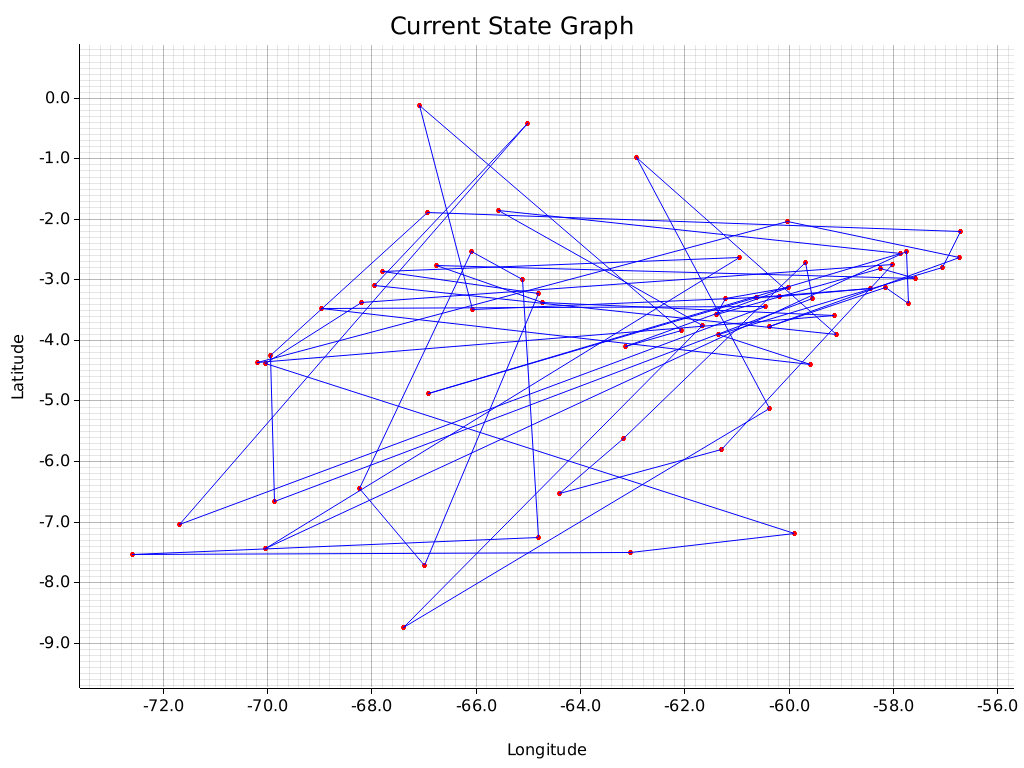
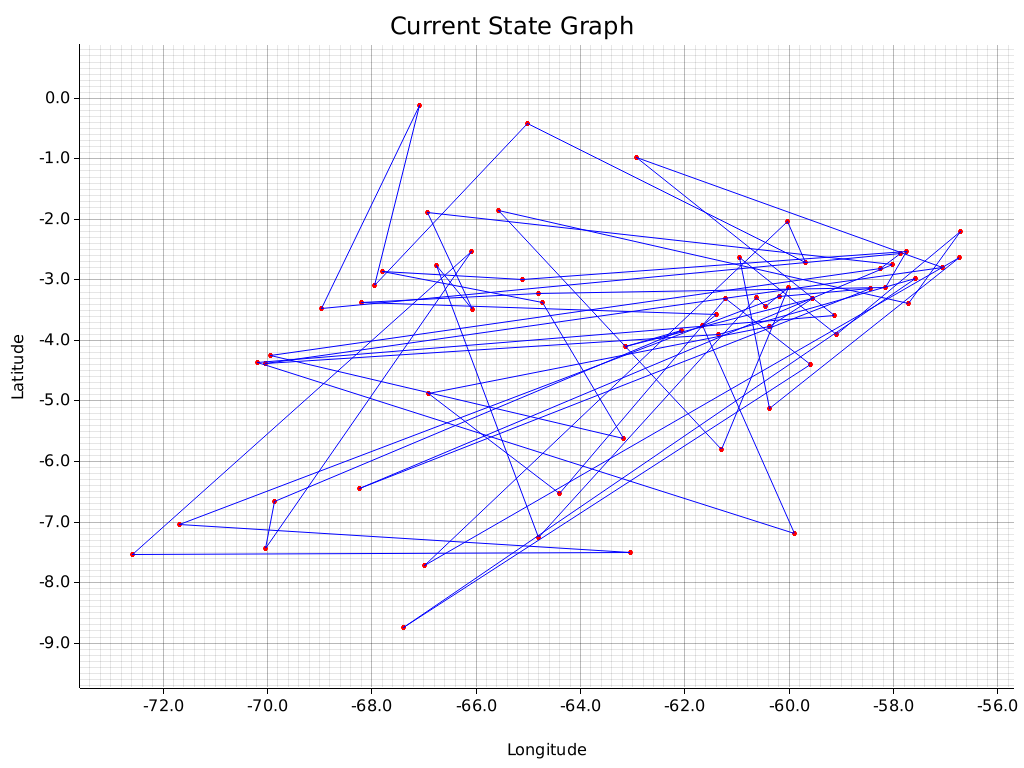
Add new graphs

diff --git a/src/algorithm/genetic.rs b/src/algorithm/genetic.rs
@@ -7,12 +7,13 @@ use crate::models::city::City;
 #[derive(Debug, Clone)]
 struct Chromossome {
     path: Vec<u16>,
-    distance: f64
+    distance: f64,
+    mutation: String
 }
 
 impl Chromossome {
     fn new(path: Vec<u16>, distance: f64) -> Self {
-        Chromossome { path, distance }
+        Chromossome { path, distance, mutation: "".to_string() }
     }
 
     fn get_path(&self) -> &Vec<u16>{
@@ -21,6 +22,10 @@ impl Chromossome {
 
     fn get_distance(&self) -> &f64 {
         &self.distance
+    }
+
+    fn get_mutation(&self) -> &String {
+        &self.mutation
     }
 
     fn update_distance(mut self, path: Vec<u16>, distance_matrix: &[f64]) -> Self {
@@ -34,7 +39,7 @@ impl Chromossome {
 
     fn mutate(self, distance_matrix: &[f64], swaps: usize, distance: usize) -> Self {
         let mut rng = rng();
-        let swap_mut = rng.random_bool(0.8);
+        let swap_mut = rng.random_bool(0.3);
         if swap_mut {
             self.swap_mutation(distance_matrix, swaps)
         } else {
@@ -42,7 +47,8 @@ impl Chromossome {
         }
     }
 
-    fn swap_mutation(self, distance_matrix: &[f64], swaps: usize) -> Self {
+    fn swap_mutation(mut self, distance_matrix: &[f64], swaps: usize) -> Self {
+        self.mutation = "swap_mutation".to_string();
         let mut rng = rng();
         let n = &self.path.len();
         let mut path = self.path.clone();
@@ -56,16 +62,19 @@ impl Chromossome {
         self.update_distance(path, distance_matrix)
     }
 
-    fn displacement_mutation(self, distance_matrix: &[f64], distance: usize) -> Self {
+    // Melhorar parâmetros
+    fn displacement_mutation(mut self, distance_matrix: &[f64], distance: usize) -> Self {
+        self.mutation = "displacement_mutation".to_string();
         let mut rng = rng();
         let n = &self.path.len();
         let mut path = self.path.clone();
-        let shift_size = (n / 20).min(n - 1);
+        let shift_size = rng.random_range(2..n-1);
+        let distance2 = rng.random_range(0..n-1);
 
         let shift_position = rng.random_range(0..n-shift_size-1);
         let displaced_part: Vec<u16> = path.drain(shift_position..shift_position+shift_size).collect();
         
-        let new_position = (shift_position + distance) % (n-shift_size);
+        let new_position = (shift_position + distance2) % (n-shift_size);
         path.splice(new_position..new_position, displaced_part);
 
         self.update_distance(path, distance_matrix)
@@ -158,6 +167,7 @@ impl Genetic {
             let (parent_1, parent_2) = self.select_parents(&sorted_population);
             let children = self.order_crossover(&parent_1, &parent_2);
             sorted_population[population_size-1] = children.clone();
+            //tentar fazer do jeito normal
             for i in 2..population_size-2 {
                 sorted_population[i] = children.clone().mutate(&self.distance_matrix, swap, displaycement_dist);
             }
@@ -165,7 +175,7 @@ impl Genetic {
             let best_distance = sorted_population[0].get_distance();
             if previous_distance > *best_distance {
                 previous_distance = best_distance.clone();
-                println!("{} {} {} {}", &best_distance, self.generations, swap, displaycement_dist);
+                println!("{} {} {} {} {}", &best_distance, self.generations, swap, displaycement_dist, sorted_population[0].get_mutation());
                 if swap > 1 {
                     swap -= 1;
                 }
@@ -207,7 +217,7 @@ impl Genetic {
             if previous_distance > *new_distance {
                 previous_distance = new_distance.clone();
                 current_gen = new_gen.clone();
-                println!("{} {} {} {}", &new_distance, self.generations, swap, displaycement_dist);
+                println!("{} {} {} {} {}", &new_distance, self.generations, swap, displaycement_dist, new_gen.get_mutation());
                 if swap > 1 {
                     swap -= 1;
                 }
